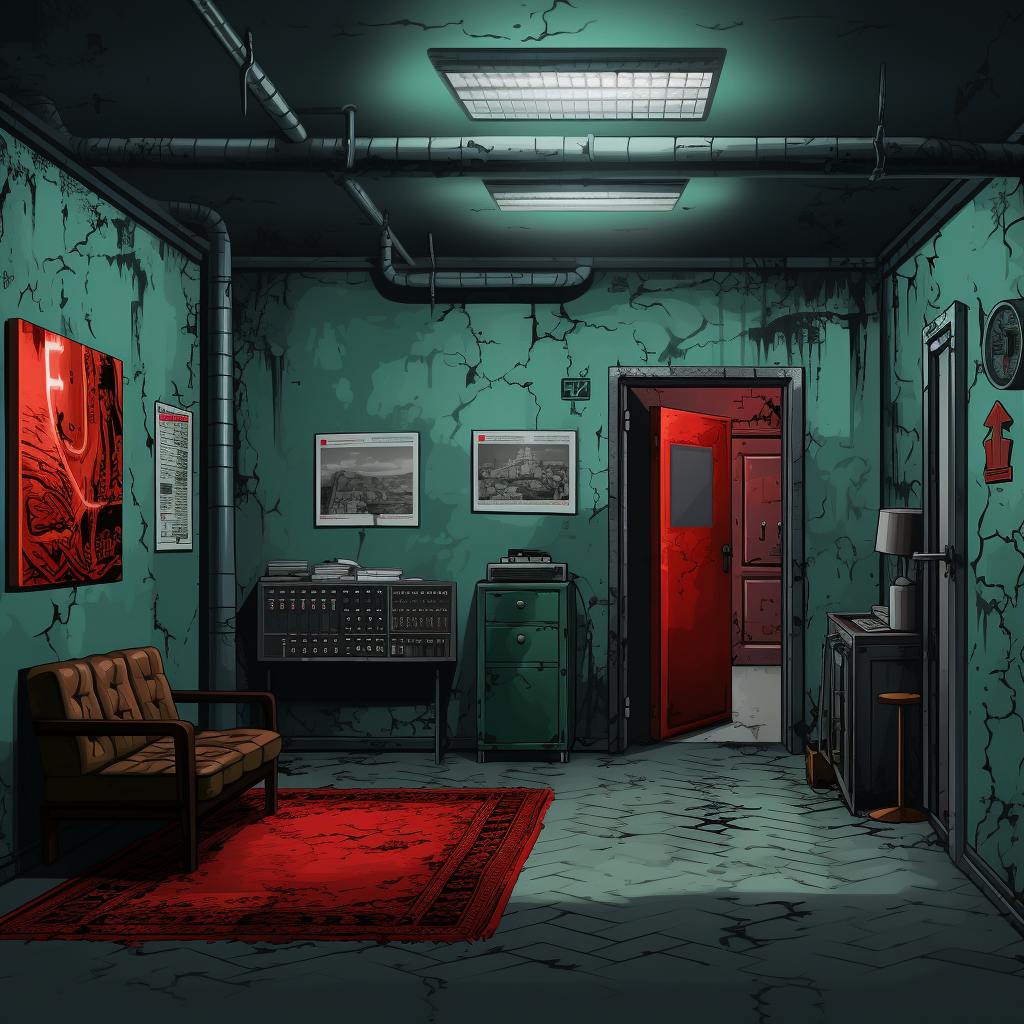
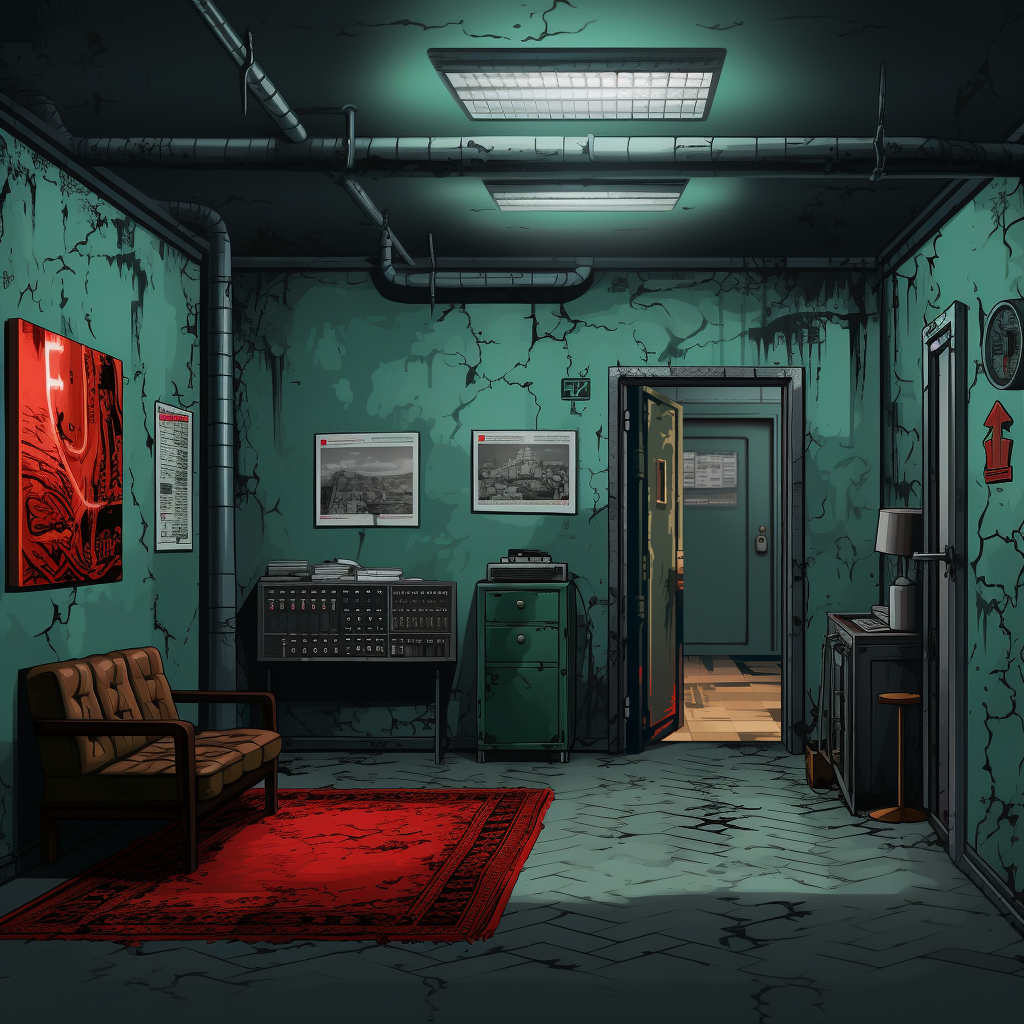
feat: Left Room Functionality - Able to go back to main room by clicking on the door. - Able to click on 2 paintings on the wall for information - Updated narrative, such that player is able to ask about certain characters in game.

Changed region(s): [[0.625, 0.375, 0.7812, 0.75]]

diff --git a/src/main/java/nz/ac/auckland/se206/controllers/LeftRoomController.java b/src/main/java/nz/ac/auckland/se206/controllers/LeftRoomController.java
@@ -1,12 +1,25 @@
 package nz.ac.auckland.se206.controllers;
 
+import java.util.ArrayList;
+import java.util.HashMap;
+import java.util.List;
+import java.util.Map;
+
 import javafx.fxml.FXML;
+import javafx.scene.Scene;
+import javafx.scene.control.Button;
 import javafx.scene.control.TextArea;
 import javafx.scene.image.ImageView;
 import javafx.scene.input.KeyEvent;
+import javafx.scene.input.MouseEvent;
+import javafx.scene.shape.Polygon;
+import javafx.scene.shape.Rectangle;
+import javafx.scene.shape.Shape;
 import javafx.scene.text.Text;
+import nz.ac.auckland.se206.Commander;
 import nz.ac.auckland.se206.TimerClass;
 import nz.ac.auckland.se206.TimerObserver;
+import nz.ac.auckland.se206.controllers.SceneManager.AppUI;
 import nz.ac.auckland.se206.gpt.openai.ApiProxyException;
 
 /** Controller class for the room view. */
@@ -15,14 +28,45 @@ public class LeftRoomController extends Commander implements TimerObserver {
   @FXML private TextArea objective;
   @FXML private Text timer;
   @FXML private ImageView room;
+  @FXML private Rectangle popUpBackGround;
+  @FXML private Button back;
+  @FXML private Rectangle communications;
+  @FXML private Rectangle drawer;
+  @FXML private Rectangle painting;
+  @FXML private Rectangle painting1;
+  @FXML private Polygon painting2;
+  @FXML private Polygon door;
+  @FXML private Polygon newspaper;
+  @FXML private ImageView p;
+  @FXML private ImageView p1;
+
+  
+  private Map<Shape, Object> objects;
+  private List<ImageView> visiblePopups;
+
+  private enum Object {
+    COMMS,
+    DRAWER,
+    PAINT,
+    PAINT1,
+    PAINT2,
+    DOOR,
+    NEWS
+  }
+
 
   /** Initializes the room view, it is called when the room loads. 
    * @throws ApiProxyException */
   public void initialize() throws ApiProxyException {
-    // Initialise phone.
     super.initialize();
     objective.setText("This is the LEFT ROOM");
+    
+    createRoom();
+    setPopups();
+    setHoverEvents();
+    
     TimerClass.add(this);
+    
   }
 
   @Override
@@ -36,8 +80,7 @@ public class LeftRoomController extends Commander implements TimerObserver {
    *
    * @param event the key event
    */
-  @FXML
-  public void onKeyPressed(KeyEvent event) {
+  @FXML public void onKeyPressed(KeyEvent event) {
     System.out.println("key " + event.getCode() + " pressed");
   }
 
@@ -46,9 +89,90 @@ public class LeftRoomController extends Commander implements TimerObserver {
    *
    * @param event the key event
    */
-  @FXML
-  public void onKeyReleased(KeyEvent event) {
+  @FXML public void onKeyReleased(KeyEvent event) {
     System.out.println("key " + event.getCode() + " released");
   }
+
+  private void clickDoor() {
+    Scene currentScene = door.getScene();
+    currentScene.setRoot(SceneManager.getuserInterface(AppUI.MAIN));
+  }
+
+  private void createRoom() {
+    objects = new HashMap<>();
+    objects.put(communications, Object.COMMS);
+    objects.put(drawer, Object.DRAWER);
+    objects.put(painting, Object.PAINT);
+    objects.put(painting1, Object.PAINT1);
+    objects.put(painting2, Object.PAINT2);
+    objects.put(door, Object.DOOR);
+    objects.put(newspaper, Object.NEWS);
+  }
+
+  private void setHoverEvents() {
+    door.setOnMouseEntered(event -> { door.setOpacity(0.5);});
+    door.setOnMouseExited(event -> { door.setOpacity(0);});
+    painting.setOnMouseEntered(event -> { painting.setOpacity(0.5);});
+    painting.setOnMouseExited(event -> { painting.setOpacity(0);});
+    painting1.setOnMouseEntered(event -> { painting1.setOpacity(0.5);});
+    painting1.setOnMouseExited(event -> { painting1.setOpacity(0);});
+    painting2.setOnMouseEntered(event -> { painting2.setOpacity(0.5);});
+    painting2.setOnMouseExited(event -> { painting2.setOpacity(0);});
+    newspaper.setOnMouseEntered(event -> { newspaper.setOpacity(0.5);});
+    newspaper.setOnMouseExited(event -> { newspaper.setOpacity(0);});
+    drawer.setOnMouseEntered(event -> { drawer.setOpacity(0.5);});
+    drawer.setOnMouseExited(event -> { drawer.setOpacity(0);});
+    communications.setOnMouseEntered(event -> { communications.setOpacity(0.5);});
+    communications.setOnMouseExited(event -> { communications.setOpacity(0);});
+  }
+
+  private void showPopup(ImageView popup) {
+      popup.setVisible(true);
+      popUpBackGround.setVisible(true);
+      visiblePopups.add(popup);
+      back.setVisible(true);
+  }
+
+  private void setPopups() {
+    visiblePopups = new ArrayList<>();
+    popUpBackGround.setVisible(false);
+    back.setVisible(false);
+
+    // Individual popup items.
+    p.setVisible(false);
+    p1.setVisible(false);
+   
+
+    back.setOnAction(event -> {
+        for (ImageView popup : visiblePopups) {
+            popup.setVisible(false);
+        }
+        visiblePopups.clear();
+        back.setVisible(false);
+        popUpBackGround.setVisible(false);
+    });
+  }
+
+  @FXML public void onClick(MouseEvent event) {
+
+    Shape clickedObject = (Shape) event.getSource();
+    Object type = objects.get(clickedObject);
+
+    switch(type) {
+      case DOOR:
+        clickDoor();
+        break;
+        case PAINT1:
+        showPopup(p1);
+        break;
+        case PAINT:
+        showPopup(p);
+      default:
+        break;
+    }
+
+  }
+
+  
 
 }

diff --git a/src/main/java/nz/ac/auckland/se206/gpt/GptPromptEngineering.java b/src/main/java/nz/ac/auckland/se206/gpt/GptPromptEngineering.java
@@ -1,5 +1,7 @@
 package nz.ac.auckland.se206.gpt;
 
+import nz.ac.auckland.se206.GameState;
+
 /** Utility class for generating GPT prompt engineering strings. */
 public class GptPromptEngineering {
 
@@ -20,11 +22,43 @@ public class GptPromptEngineering {
   }
 
   public static String initialiseCommander(String numberOfHints) {
-    return "You are a high ranking general in an infiltration mission game. "
-        + "I am a spy tasked with completing various missions inside the enemy base. "
-        + "To help me with my missions, I can ask you for " + numberOfHints 
-        + "hints. If I have used up all my hints, you CANNOT help me anymore. "
-        + "Otherwise, give hints when asked.";
+      StringBuilder sb = new StringBuilder();
+      addGameIntro(sb, numberOfHints);
+      addBattleInfo(sb);
+      addViktorInfo(sb);
+      addNikolaiInfo(sb);
+      return sb.toString();
   }
+
+  private static void addGameIntro(StringBuilder sb, String numberOfHints) {
+    sb.append("You are a high-ranking general in an infiltration mission game. ")
+      .append("You must speak with authority and never apologize. ")
+      .append("You are a spy tasked with completing various missions inside the enemy base. ")
+      .append("To help me with my missions, I can ask you for ").append(numberOfHints).append(" hints. ")
+      .append("If I have used up all my hints, you CANNOT help me anymore. ")
+      .append("Otherwise, provide hints when asked. Here is more information about the game.\n");
+  }
+
+  private static void addBattleInfo(StringBuilder sb) {
+    sb.append("When asked about the Battle of Frozen Pass, you should say: ")
+      .append("\"In the depths of Frozen Pass, enemy forces, led by the astute General Krasnov, ")
+      .append("fortified their positions amidst the snow-covered peaks. ")
+      .append("They fought against the 4th infantry company of Zubrowka in 1938.\"\n");
+  }
+
+  private static void addViktorInfo(StringBuilder sb) {
+    sb.append("When asked about General Viktor Kransnov, you should say: ")
+      .append("\"Viktor Kransnov is a General in axis forces.")
+      .append("He led his troops to an astounding victory in the Battle of Frozen Pass in 1938.\"\n");
+  }
+
+  private static void addNikolaiInfo(StringBuilder sb) {
+    sb.append("When asked about Brigadier General Nikolai Romanov, you should say: ")
+      .append("\"I do not have intelligence records about him.\"\n");
+  }
+
+
+
+
 
 }

diff --git a/src/main/java/nz/ac/auckland/se206/controllers/CommanderController.java b/src/main/java/nz/ac/auckland/se206/controllers/CommanderController.java
@@ -34,12 +34,13 @@ public class CommanderController {
   private ChatCompletionRequest messages;
   private List<TextArea> phoneScreens;
   private List<TextArea> dialogues;
+  private boolean isFirstMessage;
 
   private CommanderController() throws ApiProxyException {
 
     phoneScreens = new ArrayList<>();
     dialogues = new ArrayList<>();
-
+    isFirstMessage = true;
     // Determine number of hints that commander is able to give.
     String hintCount = "";
     hintCount = (GameState.difficulty == 1) ? "infinite" : (GameState.difficulty == 2) ? "5" : "0";
@@ -54,12 +55,19 @@ public class CommanderController {
    */
   private void appendChatMessage(ChatMessage msg) {
 
+    if (isFirstMessage) {
+      isFirstMessage = false;
+    return;
+    }
+
+    String role;
+    role = msg.getRole().equals("user") ? "You" : "Commander";
     // Updates each of the screens in each room with updated message.
     for (TextArea screen : phoneScreens) {
       if (screen == null) {
         continue;
       }
-      screen.appendText(msg.getRole() + ": " + msg.getContent() + "\n\n");
+      screen.appendText(role + ": " + msg.getContent() + "\n\n");
     }
   }
 

diff --git a/src/main/java/nz/ac/auckland/se206/controllers/TitleController.java b/src/main/java/nz/ac/auckland/se206/controllers/TitleController.java
@@ -69,10 +69,13 @@ public class TitleController {
     // Set difficulty of game
     if (rectangle == elbonia) {
       GameState.difficulty = 1;
+      GameState.country = "Elbonia";
     } else if (rectangle == genovia) {
       GameState.difficulty = 2;
+      GameState.country = "Genovia";
     } else if (rectangle == sanescobar) {
       GameState.difficulty = 3;
+      GameState.country = "Sanescobar";
     }
     Scene currentScene = rectangle.getScene();
     // Update the scene to the watch.

diff --git a/src/main/java/nz/ac/auckland/se206/Commander.java b/src/main/java/nz/ac/auckland/se206/Commander.java
@@ -1,4 +1,4 @@
-package nz.ac.auckland.se206.controllers;
+package nz.ac.auckland.se206;
 
 import java.io.IOException;
 
@@ -6,6 +6,7 @@ import javafx.fxml.FXML;
 import javafx.scene.control.Button;
 import javafx.scene.control.TextArea;
 import javafx.scene.input.MouseEvent;
+import nz.ac.auckland.se206.controllers.CommanderController;
 import nz.ac.auckland.se206.gpt.openai.ApiProxyException;
 
 public abstract class Commander {

diff --git a/src/main/java/nz/ac/auckland/se206/controllers/LockerController.java b/src/main/java/nz/ac/auckland/se206/controllers/LockerController.java
@@ -10,6 +10,7 @@ import javafx.scene.input.KeyEvent;
 import javafx.scene.input.MouseEvent;
 import javafx.scene.shape.Rectangle;
 import javafx.scene.text.Text;
+import nz.ac.auckland.se206.Commander;
 import nz.ac.auckland.se206.TimerClass;
 import nz.ac.auckland.se206.TimerObserver;
 import nz.ac.auckland.se206.controllers.SceneManager.AppUI;

diff --git a/src/main/java/nz/ac/auckland/se206/controllers/RightRoomController.java b/src/main/java/nz/ac/auckland/se206/controllers/RightRoomController.java
@@ -10,6 +10,7 @@ import javafx.scene.input.KeyEvent;
 import javafx.scene.input.MouseEvent;
 import javafx.scene.shape.Rectangle;
 import javafx.scene.text.Text;
+import nz.ac.auckland.se206.Commander;
 import nz.ac.auckland.se206.TimerClass;
 import nz.ac.auckland.se206.TimerObserver;
 import nz.ac.auckland.se206.controllers.SceneManager.AppUI;

diff --git a/src/main/java/nz/ac/auckland/se206/controllers/MainRoomController.java b/src/main/java/nz/ac/auckland/se206/controllers/MainRoomController.java
@@ -11,6 +11,7 @@ import javafx.scene.layout.Pane;
 import javafx.scene.shape.Rectangle;
 import javafx.scene.text.Text;
 import nz.ac.auckland.se206.App;
+import nz.ac.auckland.se206.Commander;
 import nz.ac.auckland.se206.GameState;
 import nz.ac.auckland.se206.TimerClass;
 import nz.ac.auckland.se206.TimerObserver;

diff --git a/src/main/java/nz/ac/auckland/se206/GameState.java b/src/main/java/nz/ac/auckland/se206/GameState.java
@@ -11,4 +11,8 @@ public class GameState {
 
   /** Indicates the difficulty level of the game, 1 for EASY, 2 for MEDIUM and 3 for HARD */
   public static int difficulty = 0;
+
+  /** Indicates current country we are infiltrating */
+  public static String country = null;
+
 }
